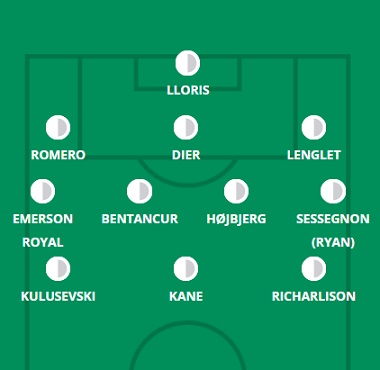
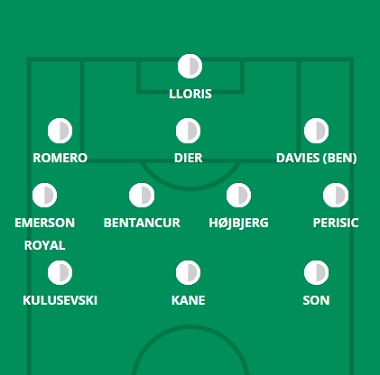
15/20

diff --git a/city.html b/city.html
@@ -63,15 +63,15 @@
     <hgroup>
         <h1> Provável Escalação</h1>
         <h2 class="direita"> por FabioVascão </h2>
-        <h3 class="direita"> Atualizado em 13/Janeiro/2023 </h3>
+        <h3 class="direita"> Atualizado em 03/Fevereiro/2023 </h3>
     </hgroup>
 
     <div class="selecao"><p><b><img src="images/logos/manchester-city.png" width="100rem" height="100rem"/> Manchester City</b></p></div>
        
     <div class="escalacao">
         <div class="topo">
-            <h2 class="titulo">Ultimas Notícias</h2> <h4><p> John Stones não participará do derby de Manchester graças à lesão misteriosa que o manteve fora da derrota da EFL Cup para o Southampton, enquanto resta saber se a sugestão de Pep Guardiola de que "todo mundo está em forma" cobre Ruben Dias ( isquiotibiais) após sua recente ausência. A falta de Stones e (presumivelmente) Dias torna a imagem ao fundo um pouco menos nublada, embora ainda haja muito em aberto para interpretação. De alguma forma, chegamos a uma situação que, fora Sergio Gomez, o até então acertado João Cancelo parece ser o menos provável dos zagueiros disponíveis para começar em Old Trafford; A recente forma de Nathan Ake como lateral-esquerdo foi elogiada por Guardiola recentemente, enquanto Cancelo luta por minutos. O resto da composição defensiva pode depender se Guardiola quer o ritmo de Kyle Walker no lugar para lidar com a velocidade de Marcus Rashford et al e quão alta estima ele tem por Rico Lewis após recentes atuações louváveis. Os dois poderiam ser facilmente unidos na mesma escalação, no entanto, com Walker formando mais um 'três' ao lado de Manuel Akanji, Nathan Ake e / ou Aymeric Laporte e Lewis empurrado para um meio-campo dois ao lado de Rodri. Erling Haaland, Kevin De Bruyne e o já mencionado Rodri parecem tão perfeitos quanto possível na escalação do patrão do City, enquanto a lógica ditaria que Riyad Mahrez e Jack Grealish mantenham suas camisas abertas: eles não são apenas os homens 'em forma' pelos flancos, mas frequentemente aparecem a par quando Guardiola quer abrandar um jogo que ameaça tornar-se num jogo de basquetebol, algo que pode acontecer facilmente frente a um United que tem feito mais golos no contra-ataque do que qualquer outro time em 2022/23. Vale a pena notar, no entanto, que Phil Foden fez um hat-trick do flanco direito contra o City no outono e Bernardo Silva já foi usado nessa posição antes em partidas dessa magnitude.</p></h4><br>
-            <h4><strong>Dúvidas:</strong> Stones e Dias.</h4>
+            <h2 class="titulo">Ultimas Notícias</h2> <h4><p> Pep Guardiola confirmou na sexta-feira que John Stones ficará fora por 3-4 semanas devido à lesão no tendão que contraiu na sexta-feira passada, mas teve melhores notícias sobre Phil Foden (pé), que "treinou muito bem" e deve estar disponível no norte de Londres . A saída de João Cancelo e a lesão de Stones reduzem o número de candidatos a uma vaga na defesa, mas não deixam isso totalmente claro, com Ruben Dias voltando aos poucos à plena forma e logo ameaçando começar no meio-campo. Há também a possibilidade de Kyle Walker ser jogado como lateral-direito para controlar o ritmo de contra-ataque do Spurs, enquanto Rico Lewis foi citado por seu técnico na sexta-feira como sendo uma das opções na esquerda (seja 'invertendo' ou empurrando para cima o flanco) quando Nathan Ake não aparece. Os únicos dois jogadores neste XI previsto que não começaram no confronto reverso na Gameweek 20 foram Aymeric Laporte (que achamos que entra no lugar dos Stones lesionados aqui) e Kevin De Bruyne, com Guardiola optando por mais apoio para Erling Haaland contra um zagueiro na forma de Julian Alvarez - ou talvez tenha sido apenas porque o belga perdeu algum treinamento naquela semana. Se Alvarez for esquecido, talvez isso torne a inclusão de Ilkay Gundogan ainda mais importante, com o alemão indiscutivelmente o melhor meio-campista do City em invadir a área e oferecer um pouco da já mencionada ameaça de gol adicional ao lado de Haaland. Se dois ou três dias de treinamento são suficientes para Foden ser considerado um potencial titular é a grande questão e, de qualquer forma, Guardiola pode simplesmente optar pela dupla mais controlada de Riyad Mahrez e Jack Grealish para impedir que o jogo vire um basquete. partida. Como sempre, a formação que você vê aqui não é um reflexo verdadeiro de como o City se posiciona com a bola - tem sido mais um 3-2-5 com a posse de bola desde a Copa do Mundo e um 4-4-2/4-2- 3-1 fora da bola.</p></h4><br>
+            <h4><strong>Dúvidas:</strong> Stones e Foden.</h4>
         </div>
         <aside>
             <figure>

diff --git a/united.html b/united.html
@@ -63,15 +63,15 @@
     <hgroup>
         <h1> Provável Escalação</h1>
         <h2 class="direita"> por FabioVascão </h2>
-        <h3 class="direita"> Atualizado em 20/Janeiro/2023 </h3>
+        <h3 class="direita"> Atualizado em 03/Fever eiro/2023 </h3>
     </hgroup>
 
     <div class="selecao"><p><b><img src="images/logos/manchester-united.png" width="100rem" height="100rem"/> Manchester United</b></p></div>
        
     <div class="escalacao">
         <div class="topo">
-            <h2 class="titulo">Ultimas Notícias</h2> <h4><p> A pressão pré-rodada 21 de Erik ten Hag foi na verdade realizada após o empate de quarta-feira com o Crystal Palace, com as cotações embargadas mantidas até hoje. Como resultado, não há muitas novidades sobre os ausentes no meio da semana Anthony Martial (perna) e Diogo Dalot (músculo) - ten Hag disse que não tinha nenhuma notícia recente sobre a dupla quando interrogado em Selhurst Park. Casemiro (suspenso) e Donny van de Beek (joelho) estão definitivamente de fora, pelo que a ausência do primeiro obrigará o seu treinador a pelo menos uma alteração este fim-de-semana. Ten Hag começou com dois 'número seis' no derby de Manchester no fim de semana passado e pode repetir essa experiência nos Emirados, dadas as poucas chances que seus rivais cross-city tiveram, com Scott McTominay potencialmente se juntando a Fred na sala de máquinas. Bruno Fernandes e Christian Eriksen foram recolocados no flanco direito e na posição de número 10, respectivamente, na primeira edição da Gameweek 20, enquanto Antony foi introduzido pelo meio no intervalo para o lesionado Martial. Desde então, é claro, Wout Weghorst chegou ao clube e, embora sua estreia no meio da semana tenha sido tranquila, sua pressão e capacidade de trazer outros para o jogo foram notáveis. Aaron Wan-Bissaka, Raphael Varane e Luke Shaw parecem titulares garantidos na defesa e quem se juntará a eles dependerá de Shaw ser usado como zagueiro ou lateral-esquerdo, com Lisandro Martinez e Tyrell Malacia brigando pela inclusão. Jadon Sancho (aptidão para o jogo) está lentamente voltando à disputa do time principal e voltou a treinar esta semana, mas a viagem ao Arsenal ainda pode acontecer muito cedo.</p></h4><br>
-            <h4><strong>Dúvidas:</strong> Dalot, Martial, Van de Beek, Casemiro e Sancho.</h4>
+            <h2 class="titulo">Ultimas Notícias</h2> <h4><p> Diogo Dalot (músculo) voltou a treinar com o Manchester United esta semana, mas não houve nenhuma atualização sobre sua condição física de Erik ten Hag na seção de transmissão de sua coletiva de imprensa pré-jogo. O reserva Jack Butland está inelegível para enfrentar seu clube pai no sábado, enquanto Scott McTominay (questão não especificada) juntou-se aos ausentes de longa data Christian Eriksen (tornozelo) e Donny van de Beek (joelho) nas laterais. A nova contratação, Marcel Sabitzer, foi considerada apta para jogar por seu técnico, no entanto, e os recém-disponíveis Jadon Sancho e Anthony Martial apareceram como substitutos na vitória da semifinal da Carabao Cup no meio da semana sobre o Nottingham Forest. Quem faz parceria com Casemiro é provavelmente a maior chamada para dez Hag, com Fred talvez o favorito (ele desempenhou o papel com grande efeito contra o Spurs na 12ª rodada), já que Sabitzer teve apenas uma sessão de treinamento com seus companheiros de equipe. O retorno iminente de Dalot levanta o alarme para Aaron Wan-Bissaka, que tem se saído bem como lateral-direito ultimamente, enquanto as perspectivas iniciais de Tyrell Malacia dependem inteiramente de Shaw se machucar ou ser transferido para o meio-campo novamente. Quem lidera a linha é outro grande dilema: Martial foi sem dúvida apressado demais na Gameweek 20, então dez Hag pode querer resistir ao impulso de fazê-lo novamente aqui, embora esteja claro o quanto ele ama o francês no topo.</p></h4><br>
+            <h4><strong>Dúvidas:</strong> Dalot, Van de Beek, Eriksen, Butland e McTominay.</h4>
         </div>
         <aside>
             <figure>

diff --git a/nforest.html b/nforest.html
@@ -63,15 +63,15 @@
     <hgroup>
         <h1> Provável Escalação</h1>
         <h2 class="direita"> por FabioVascão </h2>
-        <h3 class="direita"> Atualizado em 20/Janeiro/2023 </h3>
+        <h3 class="direita"> Atualizado em 03/Fevereiro/2023 </h3>
     </hgroup>
 
     <div class="selecao"><p><b><img src="images/logos/nforest.png" width="100rem" height="100rem"/> N. Forest</b></p></div>
        
     <div class="escalacao">
         <div class="topo">
-            <h2 class="titulo">Ultimas Notícias</h2> <h4><p> Dean Henderson (coxa) ficará de fora no próximo mês depois de sofrer uma lesão nos estágios finais da vitória sobre o Leicester City no fim de semana passado, com Wayne Hennessey definido para substituir neste sábado. Willy Boly (tornozelo), Omar Richards (perna), Giulian Biancone (ACL), Moussa Niakhate (coxa), Cheikhou Kouyate (coxa), Jesse Lingard (coxa) e Taiwo Awoniyi (virilha) também devem ficar de fora, com Steve Cooper disse que Forest estava "como estávamos" em termos de notícias da equipe, mas Ryan Yates se recuperou rapidamente de uma lesão facial que contraiu no fim de semana passado. Chegada iminente Chris Wood provavelmente fornecerá o apoio inicial para os três primeiros de Brennan Johnson, Morgan Gibbs-White e Gustavo Scarpa, devido à falta de tempo de treinamento com seus novos companheiros de equipe, enquanto as únicas mudanças na forma defesa e meio-campo desde o reinício pós-Copa do Mundo foram aplicados devido a lesão. Jogadores como Harry Toffolo, Lewis O'Brien, Sam Surridge, Emmanuel Dennis e Jack Colback parecem prestes a aquecer o banco mais uma vez, então, com esse contingente potencialmente acompanhado pelo recém-chegado Danilo Pereira; Cooper disse que o brasileiro enfrentou um "período de adaptação" após sua mudança em janeiro.</p></h4><br>
-            <h4><strong>Dúvidas:</strong> Biancone, Kouyaté, Henderson, Niakhaté, Awoniyi, Boly, Lingard e Richards (Omar).</h4>
+            <h2 class="titulo">Ultimas Notícias</h2> <h4><p> Dean Henderson (coxa), Omar Richards (perna), Giulian Biancone (ACL), Moussa Niakhate (coxa), Cheikhou Kouyate (coxa), Jesse Lingard (Aquiles), Taiwo Awoniyi (virilha), Ryan Yates (doença), Morgan Gibbs -White (tornozelo) e o novo garoto Jonjo Shelvey (panturrilha) parecem perder a visita de Leeds, com Jack Colback (doença) o único jogador que Steve Cooper disse que Forest receberia de volta neste fim de semana - embora ele não tenha mencionado Chris Wood (doença), que estava empatado no meio da semana de qualquer maneira. Tudo isso não deixa Cooper com muito o que jogar, apesar da enorme quantidade de atividades de transferência, com dois novos recrutas - Danilo Pereira e Gustavo Scarpa - potencialmente prontos para entrar na Gameweek 21, Yates e Gibbs-White, respectivamente. Emmanuel Dennis e Sam Surridge são alternativas no topo se Wood ainda não tiver se recuperado totalmente, enquanto Keylor Navas pode fazer sua estreia entre os postes às custas do pobre Wayne Hennessey; No entanto, Navas chegou no prazo final, portanto, existe a possibilidade de que alguma burocracia não tenha sido eliminada. Os quatro defensores foram amplamente resolvidos nas últimas seis semanas de jogo, com três jogos sem sofrer golos chegando no processo.</p></h4><br>
+            <h4><strong>Dúvidas:</strong> Biancone, Kouyaté, Shelvey, Yates, Henderson, Wood, Niakhaté, Gibbs-White, Awoniyi, Boly, Lingard e Richards (Omar).</h4>
         </div>
         <aside>
             <figure>

diff --git a/spurs.html b/spurs.html
@@ -63,15 +63,15 @@
     <hgroup>
         <h1> Provável Escalação</h1>
         <h2 class="direita"> por FabioVascão </h2>
-        <h3 class="direita"> Atualizado em 20/Janeiro/2023 </h3>
+        <h3 class="direita"> Atualizado em 03/Fevereiro/2023 </h3>
     </hgroup>
 
     <div class="selecao"><p><b><img src="images/logos/tottenham.png" width="100rem" height="100rem"/> Tottenham</b></p></div>
        
     <div class="escalacao">
         <div class="topo">
-            <h2 class="titulo">Ultimas Notícias</h2> <h4><p> Com exceção do ausente de longa data Lucas Moura (tendão), os Spurs não têm nenhum problema sério com lesões antes da viagem de segunda-feira para o Fulham. Antonio Conte disse na entrevista coletiva de sexta-feira que "fadiga" era a principal preocupação após a derrota por 4 a 2 para o Etihad, embora o dia extra de recuperação deva ser benéfico antes do confronto em Craven Cottage. Um novo Ryan Sessegnon e Richarlison (que estrelou o jogo reverso contra o Fulham) esperam voltar a entrar na equação após exibições ruins de Ivan Perisic e Son Heung-min contra o Manchester City, embora o recentemente livre de lesões Dejan Kulusevski tenha sido verificado por Conte como um dos jogadores cansados do meio da semana e ele poderia abrir caminho para Richarlison. O recém-recuperado Rodrigo Bentancur está em um barco semelhante, embora Conte não tenha exatamente alternativas de meio-campo convincentes na forma de Yves Bissouma e Oliver Skipp. Cristian Romero é o único membro da defesa do Spurs que pode argumentar que ele merece começar com o mérito atual (incluímos Hugo Lloris nisso), mas o tão difamado Emerson Royal na verdade fez uma exibição decente contra Jack Grealish, então poderia novamente obter o aceno à frente de Matt Doherty.</p></h4><br>
-            <h4><strong>Dúvidas:</strong> Lucas Moura.</h4>
+            <h2 class="titulo">Ultimas Notícias</h2> <h4><p> O regresso à forma de Richarlison (coxa) e Lucas Moura (tendão) deixa os Spurs com um plantel praticamente em forma, reforçado com a contratação de Pedro Porro. O chefe assistente Cristian Stellini disse que Porro "poderia" realmente jogar neste fim de semana, embora, dado que Emerson Royal, mais defensivo, tenha desfrutado de um de seus melhores momentos de forma ultimamente (relativamente falando), os Lilywhites podem optar por facilitar o novo ala direito - de volta à vida na Premier League em um jogo menos assustador. O lado que você vê aqui é o que venceu por 2 a 0 no Etihad antes de perder um thriller de seis gols, com Antonio Conte mantendo o mesmo XI na vitória por 1 a 0 no Fulham. É difícil ver muita mudança além dos laterais, com Ivan Perisic bem abaixo da média ultimamente e potencialmente em risco - mas Ryan Sessegnon dificilmente tem feito uma afirmação convincente, falhando em impressionar contra Preston na copa. Richarlison, Lucas e Arnaut Danjuma finalmente oferecem aos Spurs alguma profundidade no topo, mas seria um choque ver algo diferente dos habituais três atacantes contra o City.</p></h4><br>
+            <h4><strong>Dúvidas:</strong> Sarr.</h4>
         </div>
         <aside>
             <figure>

diff --git a/leicester.html b/leicester.html
@@ -63,7 +63,7 @@
     <hgroup>
         <h1> Provável Escalação</h1>
         <h2 class="direita"> por FabioVascão </h2>
-        <h3 class="direita"> Atualizado em 03/Feveiro/2023 </h3>
+        <h3 class="direita"> Atualizado em 03/Fevereiro/2023 </h3>
     </hgroup>
 
     <div class="selecao"><p><b><img src="images/logos/leicester.png" width="100rem" height="100rem"/> Leicester</b></p></div>
